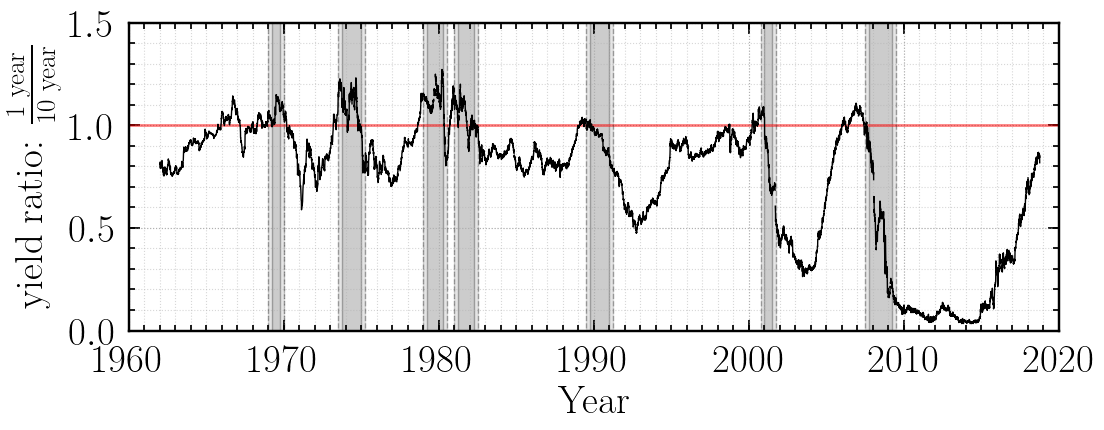
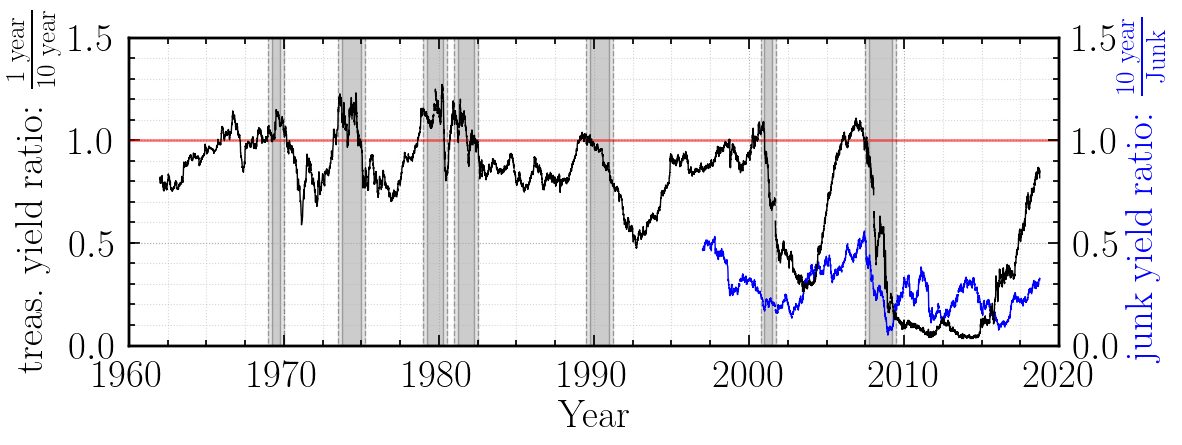
init

diff --git a/treasury-yields/src/compute-treasury-yields-ratio.py b/treasury-yields/src/compute-treasury-yields-ratio.py
@@ -6,17 +6,30 @@ import pandas
 
 f1 = 'dat/DGS1.csv'
 f10= 'dat/DGS10.csv'
+fJ = 'dat/BAMLH0A3HYCEY.csv'
 
 def get_df(f):
   df = pandas.read_csv(f)
   key= f.split('/')[-1].split('.')[0]
   df.DATE = df.DATE.astype('datetime64[ns]')
-  df[key][df[key] == '.'] = NaN
+  df[key][df[key] == '.'] = nan
   df[key] = df[key].astype(float)
-  return df
+  return df.set_index('DATE')
 
 df1 = get_df(f1)
-df10= get_df(f10)
+df10= get_df(f10).reindex(df1.index)
+dfJ = get_df(fJ).reindex(df1.index)
+
+dfd= {
+  'DATE'   : df1.index,
+  'DGS1'   : df1.DGS1,
+  'DGS10'  : df10.DGS10,
+  'JUNK'   : dfJ.BAMLH0A3HYCEY,
+  'yratio' : df1.DGS1 / df10.DGS10,
+  'jratio' : df10.DGS10 / dfJ.BAMLH0A3HYCEY,
+}
+
+df = pandas.DataFrame(dfd)
 
 recessions = [
   [ datetime64('1969-01-01'), datetime64('1969-04-01'), datetime64('1969-10-01'), datetime64('1970-01-01') ],
@@ -28,34 +41,27 @@ recessions = [
   [ datetime64('2007-07-01'), datetime64('2007-10-01'), datetime64('2009-04-01'), datetime64('2009-07-01') ],
 ]
 
-if len(df1) == len(df10):
-  df = df1.copy()
-  df = df.assign(DGS10= df10.DGS10)
-  df = df.assign(ratio= df.DGS1 / df.DGS10 )
-  ext= [-1,2]
-  figure(1,figsize=(12,4)); clf()
-  ax = gca()
-  plot([datetime64('1955'),datetime64('2025')],ones(2),'r-',lw=2,alpha=.5)
-  for recession in recessions:
-    plot([recession[ 0]]*2,ext,'--k',alpha=.3)
-    plot([recession[-1]]*2,ext,'--k',alpha=.3)
-    fill_betweenx(ext,*recession[:2],color='k',alpha=.1)
-    fill_betweenx(ext,*recession[1:-1],color='k',alpha=.2)
-    fill_betweenx(ext,*recession[-2:],color='k',alpha=.1)
-  plot(df.DATE,df.ratio,'k-')
-  xlabel(r'Year')
-  ylabel(r'yield ratio: $\frac{1\textrm{ year}}{10\textrm{ year}}$')
-  grid(which='major',ls=':')
-  grid(which='minor',ls=':',alpha=0.5)
-  xlim(datetime64('1960'),datetime64('2020'))
-  ylim(0,1.50)
-  ax.xaxis.set_minor_locator(LinearLocator(numticks=61))
-  ax.yaxis.set_minor_locator(MultipleLocator(0.1))
-  savefig('treasury_yield_ratio.png',bbox_inches='tight')
-else:
-  print('Expected equivalent length data')
-  print('Being lazy and quitting')
-
-
-
-
+ext= [-1,2]
+figure(1,figsize=(12,4)); clf()
+ax = gca()
+plot([datetime64('1955'),datetime64('2025')],ones(2),'r-',lw=2,alpha=.5)
+for recession in recessions:
+  plot([recession[ 0]]*2,ext,'--k',alpha=.3)
+  plot([recession[-1]]*2,ext,'--k',alpha=.3)
+  fill_betweenx(ext,*recession[:2],color='k',alpha=.1)
+  fill_betweenx(ext,*recession[1:-1],color='k',alpha=.2)
+  fill_betweenx(ext,*recession[-2:],color='k',alpha=.1)
+plot(df.DATE,df.jratio,'b-')
+plot(df.DATE,df.yratio,'k-')
+xlabel(r'Year')
+ylabel(r'treas. yield ratio: $\frac{1\textrm{ year}}{10\textrm{ year}}$')
+grid(which='major',ls=':')
+grid(which='minor',ls=':',alpha=0.5)
+xlim(datetime64('1960'),datetime64('2020'))
+ylim(0,1.50)
+ax.xaxis.set_minor_locator(LinearLocator(numticks=61))
+ax.yaxis.set_minor_locator(MultipleLocator(0.1))
+ax2 = ax.twinx()
+ax2.set_ylim(ax.get_ylim())
+ax2.set_ylabel(r'junk yield ratio: $\frac{10\textrm{ year}}{\textrm{Junk}}$',color='b')
+savefig('treasury_yield_ratio.png',bbox_inches='tight')
